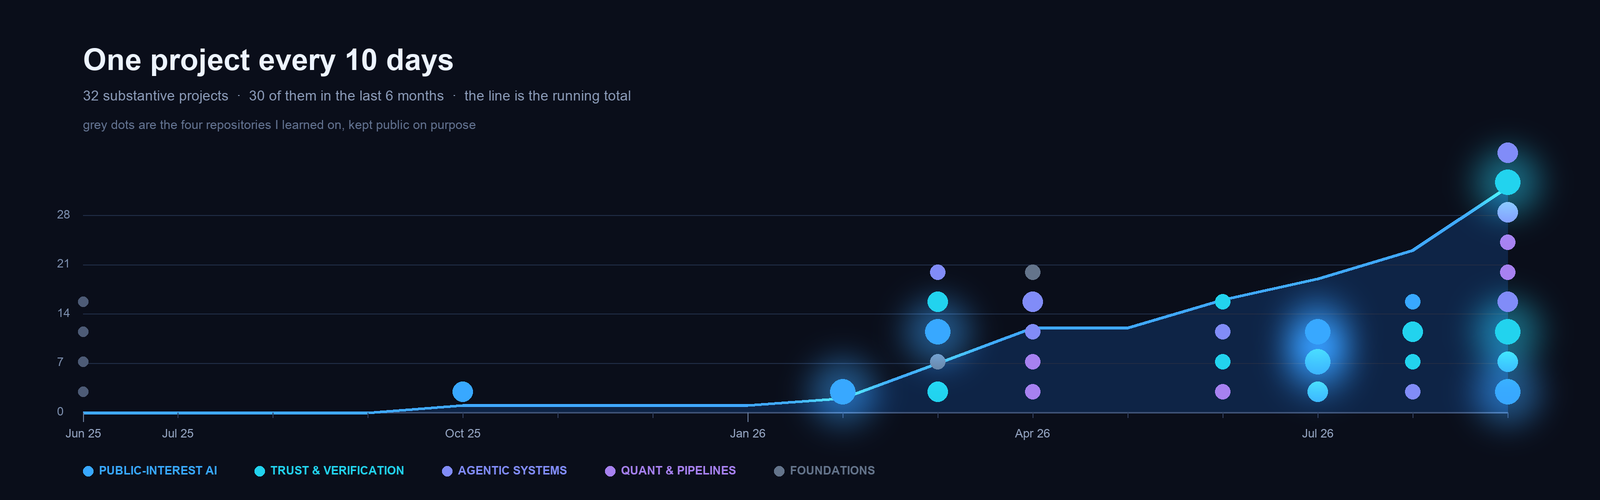
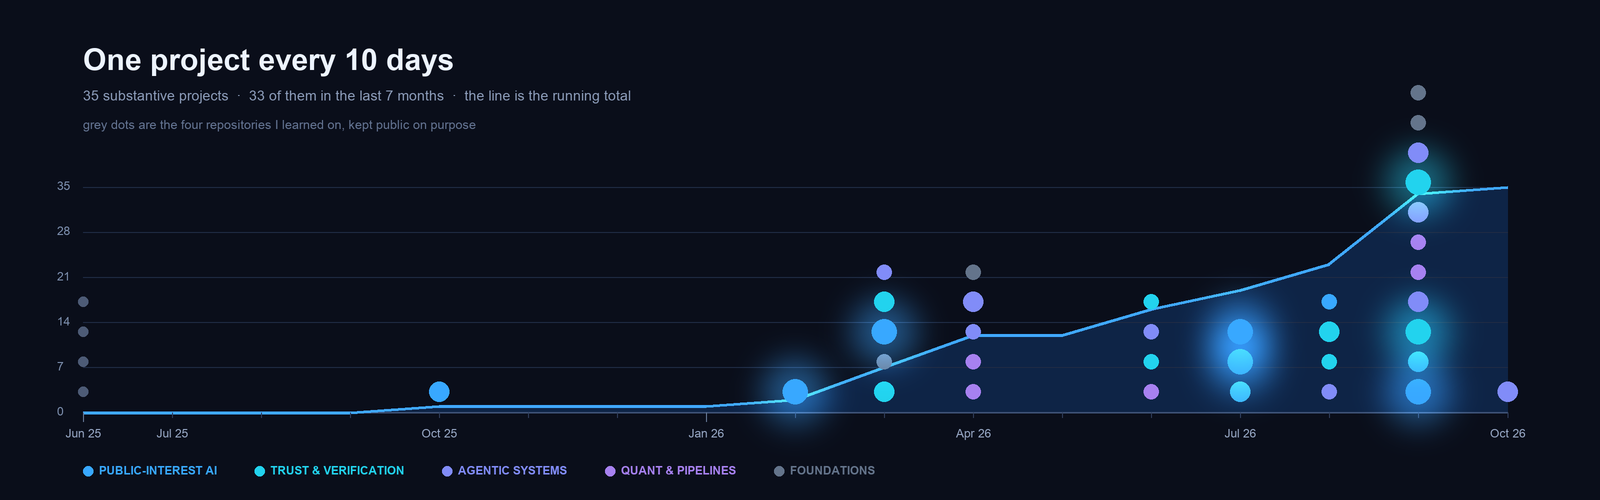
Add HireFlow, the portfolio and snipvault_v2; fix project index links
The index linked own repositories without the owner, so every link in
PROJECTS.md pointed at github.com/<repo>. They now point at the right
place. Counts, banner and timeline are regenerated from the live account
(35 projects). AGENTIQ now states 21 tools and 719 tests.

diff --git a/tools/themes.py b/tools/themes.py
@@ -53,6 +53,7 @@ THEME = {
     "CacheLLM": ("agentic systems", 2),
     "buy-or-wait-financial-agent": ("agentic systems", 2),
     "SmartAlloc": ("agentic systems", 2),
+    "hireflow": ("agentic systems", 2),
     "Inflx": ("agentic systems", 1),
     "Message-Notification-Router": ("agentic systems", 1),
     "Cost-Intel-Intelligence": ("agentic systems", 1),
@@ -68,6 +69,8 @@ THEME = {
     # foundations
     "Adaptive-Graph-Search-Suite": ("foundations", 1),
     "LNMIIT-Event-Management-System": ("foundations", 1),
+    "portfolio": ("foundations", 1),
+    "snipvault_v2": ("foundations", 1),
 }
 
 # the four repos I learned on, kept out of the counts so they are not padding

diff --git a/tools/projects_md.py b/tools/projects_md.py
@@ -47,7 +47,9 @@ def main() -> None:
             desc = (r.get("description") or "").replace("|", "\\|").strip()
             # an organisation repository lives under the organisation, not me
             label = r["name"] + (f" ⟨{r['org']}⟩" if r.get("org") else "")
-            a(f"| **[{label}]({GH}/{full_name(r)})** | {langs} | {desc} |")
+            # own repositories need the owner in the link, organisation ones carry it already
+            path = full_name(r) if r.get("org") else f"{OWNER}/{r['name']}"
+            a(f"| **[{label}]({GH}/{path})** | {langs} | {desc} |")
         a("")
 
     learn = [r for r in repos() if r["name"] in LEARNING]

diff --git a/PROJECTS.md b/PROJECTS.md
@@ -1,6 +1,6 @@
 # Every project, grouped
 
-32 substantive projects, one every 10 days on average. This page is generated from the GitHub API by `make index`, so it cannot fall behind the account.
+35 substantive projects, one every 10 days on average. This page is generated from the GitHub API by `make index`, so it cannot fall behind the account.
 
 [Back to the profile](README.md)
 
@@ -10,15 +10,15 @@
 
 | Project | Built with | What it does |
 |---|---|---|
-| **[Diabetic-Retinopathy-Detection](https://github.com/Diabetic-Retinopathy-Detection)** | Python, Shell, Jupyter Notebook | Explainable, quality-aware AI for diabetic retinopathy screening in rural India — measured Grad-CAM localisation, lesion-grounded evidence, and a district screening-programme simulation. Research prototype, not a medical device. |
-| **[Kadi](https://github.com/Kadi)** | TypeScript, JavaScript, Python | AI-driven crime analytics for the Karnataka State Police — 59,985 siloed FIRs joined into one explainable link graph, with entity resolution, 8 benchmarked ML models, forecasting, evidence OCR and a grounded bilingual (EN/ಕನ್ನಡ) assistant. Built on Zoho Catalyst. KSP Datathon 2026. |
-| **[KrishiMitra](https://github.com/KrishiMitra)** | Python, TypeScript, CSS | Crop intelligence for Indian smallholders: CatBoost crop recommendation cross-checked against 5 years of government district returns, leaf-disease detection from photos (93.75%, 10,162 images), FAO-56 irrigation advisory and Soil Health Card baselines from 13.35M tests. 13 tabs, 12 languages, 37 endpoints, deployed free. |
+| **[Diabetic-Retinopathy-Detection](https://github.com/adarshcod30/Diabetic-Retinopathy-Detection)** | Python, Shell, Jupyter Notebook | Explainable, quality-aware AI for diabetic retinopathy screening in rural India — measured Grad-CAM localisation, lesion-grounded evidence, and a district screening-programme simulation. Research prototype, not a medical device. |
+| **[Kadi](https://github.com/adarshcod30/Kadi)** | TypeScript, JavaScript, Python | AI-driven crime analytics for the Karnataka State Police — 59,985 siloed FIRs joined into one explainable link graph, with entity resolution, 8 benchmarked ML models, forecasting, evidence OCR and a grounded bilingual (EN/ಕನ್ನಡ) assistant. Built on Zoho Catalyst. KSP Datathon 2026. |
+| **[KrishiMitra](https://github.com/adarshcod30/KrishiMitra)** | Python, TypeScript, CSS | Crop intelligence for Indian smallholders: CatBoost crop recommendation cross-checked against 5 years of government district returns, leaf-disease detection from photos (93.75%, 10,162 images), FAO-56 irrigation advisory and Soil Health Card baselines from 13.35M tests. 13 tabs, 12 languages, 37 endpoints, deployed free. |
 | **[VaidyaMitra ⟨VaidyaMitra⟩](https://github.com/VaidyaMitra/VaidyaMitra)** | Python, TypeScript, CSS | Privacy-first clinical intelligence for Bharat. PII/PHI is masked before any model call. Jan Aushadhi generic matching with substitution safety warnings, report simplification in 15 Indian languages, and vision OCR — built on Amazon Bedrock (Nova Pro), FastAPI and Next.js. |
-| **[Vayu](https://github.com/Vayu)** | Python, TypeScript, Dockerfile | VAYU — Verifiable Airshed Intelligence & Enforcement. National air-quality platform: LightGBM + CNN-LSTM forecasting, Gemini-verified citizen reports, a 15,360-cell satellite grid, Gaussian-plume ROI ranking, and diff-in-diff outcome verification. Deployed on Google Cloud Run. |
-| **[CreditSetu](https://github.com/CreditSetu)** | Python, JavaScript, CSS | Open-source, explainable credit intelligence engine for thin-file and alternative-data lending. pip install creditsetu — score customers with no bureau history from behavioral transaction data, explain every decision, adapt currency/policy via config. |
-| **[MargaDrishti](https://github.com/MargaDrishti)** | Python, Jupyter Notebook, TypeScript | Spatio-temporal ML for Bengaluru road-capacity loss: parking-violation hotspot forecasting and event congestion, on one H3 x hourly substrate. 298k violations, 8k ASTraM events, 8 model families, published enforcement-bias audit. |
-| **[Medicure-AI](https://github.com/Medicure-AI)** | Python, JavaScript, CSS | Retrieval-first medicine identification for India: photograph a strip, get the composition, NPPA price check, Jan Aushadhi generic and interaction warnings — each with a calibrated confidence, and an honest refusal when the evidence is thin. |
-| **[Floodcast-Gurugram](https://github.com/Floodcast-Gurugram)** | TypeScript, Python, CSS | Will my route through Gurugram flood, and when? Live rainfall against 73 researched flood points, plus a register that learns from citizen reports. |
+| **[Vayu](https://github.com/adarshcod30/Vayu)** | Python, TypeScript, Dockerfile | VAYU — Verifiable Airshed Intelligence & Enforcement. National air-quality platform: LightGBM + CNN-LSTM forecasting, Gemini-verified citizen reports, a 15,360-cell satellite grid, Gaussian-plume ROI ranking, and diff-in-diff outcome verification. Deployed on Google Cloud Run. |
+| **[CreditSetu](https://github.com/adarshcod30/CreditSetu)** | Python, JavaScript, CSS | Open-source, explainable credit intelligence engine for thin-file and alternative-data lending. pip install creditsetu — score customers with no bureau history from behavioral transaction data, explain every decision, adapt currency/policy via config. |
+| **[MargaDrishti](https://github.com/adarshcod30/MargaDrishti)** | Python, Jupyter Notebook, TypeScript | Spatio-temporal ML for Bengaluru road-capacity loss: parking-violation hotspot forecasting and event congestion, on one H3 x hourly substrate. 298k violations, 8k ASTraM events, 8 model families, published enforcement-bias audit. |
+| **[Medicure-AI](https://github.com/adarshcod30/Medicure-AI)** | Python, JavaScript, CSS | Retrieval-first medicine identification for India: photograph a strip, get the composition, NPPA price check, Jan Aushadhi generic and interaction warnings — each with a calibrated confidence, and an honest refusal when the evidence is thin. |
+| **[Floodcast-Gurugram](https://github.com/adarshcod30/Floodcast-Gurugram)** | TypeScript, Python, CSS | Will my route through Gurugram flood, and when? Live rainfall against 73 researched flood points, plus a register that learns from citizen reports. |
 
 ## trust & verification
 
@@ -26,14 +26,14 @@
 
 | Project | Built with | What it does |
 |---|---|---|
-| **[AGENTIQ](https://github.com/AGENTIQ)** | JavaScript, TypeScript, Python | Agentic API testing and security validation: AI agents that act only through a permission-gated, SSRF-guarded, audited MCP tool layer. |
-| **[Orbweaver](https://github.com/Orbweaver)** | Python, Shell, Makefile | Finding coordinated promotion-abuse rings in transaction graphs, and reporting what it costs to be wrong about them. Densest-subgraph ring extraction over a rarity-weighted account graph, with a capacity-aware review policy and a nightly replay that survives the night. |
-| **[artifact-repro-triage](https://github.com/artifact-repro-triage)** | Python, HTML, Makefile | Verifies that a research paper's code repository actually contains what its README promises. Deterministic checks + one model call: 0% -> 100% detection of fabricated file claims, measured across 742 artifacts. micro1 Frontier Engineering Challenge 2026. |
-| **[MedGuardX](https://github.com/MedGuardX)** | Python, TypeScript, CSS | Context-aware PII/PHI detection & masking for healthcare data: a stateless OSS engine (on PyPI), a hardened FastAPI service (JWT RBAC + encryption), and a Next.js app. Built on Microsoft Presidio + spaCy, model-configurable (sm/md/lg/trf). |
-| **[OpenForensics](https://github.com/OpenForensics)** | Python, Shell | Deepfake face detection with a three-backbone CNN ensemble (ResNet50 + VGG16 + EfficientNetV2-B0). Calibrated confidence, per-backbone Grad-CAM, and an eight-page Streamlit dashboard showing the training, evaluation and robustness evidence behind every number. |
-| **[Multi-Modal-Evidence-Review](https://github.com/Multi-Modal-Evidence-Review)** | Python | Vision-language system that verifies whether photo evidence actually supports a damage claim (cars, laptops, packages) or contradicts it. Built for HackerRank Orchestrate 2026. |
-| **[Specledger](https://github.com/Specledger)** | Python, HTML, Makefile | Chain of custody for AI-generated product data — evidence-gated extraction, calibrated confidence, and selective abstention for industrial product intelligence. |
-| **[Talent-Intelligence-Candidate-Discovery-Platform](https://github.com/Talent-Intelligence-Candidate-Discovery-Platform)** | Python | CPU-only pipeline that ranks 100,000 candidates in under 18 seconds, filters out fake profiles/honeypots, and generates factual recruiter justifications with DNA fingerprints & trust scores. |
+| **[AGENTIQ](https://github.com/adarshcod30/AGENTIQ)** | JavaScript, TypeScript, Python | Agentic API testing and security validation: AI agents that act only through a permission-gated, SSRF-guarded, audited MCP tool layer. |
+| **[Orbweaver](https://github.com/adarshcod30/Orbweaver)** | Python, Shell, Makefile | Finding coordinated promotion-abuse rings in transaction graphs, and reporting what it costs to be wrong about them. Densest-subgraph ring extraction over a rarity-weighted account graph, with a capacity-aware review policy and a nightly replay that survives the night. |
+| **[artifact-repro-triage](https://github.com/adarshcod30/artifact-repro-triage)** | Python, HTML, Makefile | Verifies that a research paper's code repository actually contains what its README promises. Deterministic checks + one model call: 0% -> 100% detection of fabricated file claims, measured across 742 artifacts. micro1 Frontier Engineering Challenge 2026. |
+| **[MedGuardX](https://github.com/adarshcod30/MedGuardX)** | Python, TypeScript, CSS | Context-aware PII/PHI detection & masking for healthcare data: a stateless OSS engine (on PyPI), a hardened FastAPI service (JWT RBAC + encryption), and a Next.js app. Built on Microsoft Presidio + spaCy, model-configurable (sm/md/lg/trf). |
+| **[OpenForensics](https://github.com/adarshcod30/OpenForensics)** | Python, Shell | Deepfake face detection with a three-backbone CNN ensemble (ResNet50 + VGG16 + EfficientNetV2-B0). Calibrated confidence, per-backbone Grad-CAM, and an eight-page Streamlit dashboard showing the training, evaluation and robustness evidence behind every number. |
+| **[Multi-Modal-Evidence-Review](https://github.com/adarshcod30/Multi-Modal-Evidence-Review)** | Python | Vision-language system that verifies whether photo evidence actually supports a damage claim (cars, laptops, packages) or contradicts it. Built for HackerRank Orchestrate 2026. |
+| **[Specledger](https://github.com/adarshcod30/Specledger)** | Python, HTML, Makefile | Chain of custody for AI-generated product data — evidence-gated extraction, calibrated confidence, and selective abstention for industrial product intelligence. |
+| **[Talent-Intelligence-Candidate-Discovery-Platform](https://github.com/adarshcod30/Talent-Intelligence-Candidate-Discovery-Platform)** | Python | CPU-only pipeline that ranks 100,000 candidates in under 18 seconds, filters out fake profiles/honeypots, and generates factual recruiter justifications with DNA fingerprints & trust scores. |
 
 ## agentic systems
 
@@ -41,14 +41,15 @@
 
 | Project | Built with | What it does |
 |---|---|---|
-| **[buy-or-wait-financial-agent](https://github.com/buy-or-wait-financial-agent)** | Python, Shell | Financial decision agent for HackerRank Orchestrate September 2026: deterministic 90-day cash-flow forecast, typed evidence extraction on Amazon Bedrock, verified payment plans |
-| **[CacheLLM](https://github.com/CacheLLM)** | Python, Dockerfile, Makefile | A drop-in semantic cache for LLM APIs. One proxy routes to OpenAI, Gemini, Groq, Claude, Ollama and Bedrock. 77% hit rate, 78% lower cost, zero wrong answers on new questions. |
-| **[SmartAlloc](https://github.com/SmartAlloc)** | TypeScript, JavaScript, CSS | SmartAlloc is an autonomous AI decision-science platform for enterprise resource allocation. Using a 7-agent LangGraph pipeline, Linear Programming, and Google Gemini, it actively detects compute waste, predicts SLA bottlenecks, and executes dynamic optimizations to maximize ROI. |
-| **[Travel-Planner-Agent](https://github.com/Travel-Planner-Agent)** | Python, TypeScript, Shell | Five generations of a multi-agent travel planner — linear to browser-driving — served concurrently by Aegra on AWS Bedrock. LangGraph, MCP, human-in-the-loop, live Playwright automation you can take over. |
-| **[Cost-Intel-Intelligence](https://github.com/Cost-Intel-Intelligence)** | TypeScript, JavaScript, CSS | Cost Intel Intelligence is an AI system that analyzes enterprise data to detect cost inefficiencies, predict risks, and trigger actions. It combines real-time analytics, LLM-based decisions, and human approval to reduce cost leakage, prevent SLA breaches, and deliver measurable financial impact. |
-| **[Inflx](https://github.com/Inflx)** | Python, Dockerfile | AutoStream: A production-ready AI agent built on LangGraph & Gemini 3.1. It converts social media interactions into qualified CRM leads through zero-hallucination RAG, context-aware intent routing, and stateful multi-turn data extraction. Deployed live on Streamlit Cloud. |
-| **[Message-Notification-Router](https://github.com/Message-Notification-Router)** | Python | AI system that decides which WhatsApp messages deserve to interrupt you and which shouldn't — multimodal, personalised, safety-first. Built for HackerRank Orchestrate 2026. |
-| **[SuiGuard](https://github.com/SuiGuard)** | TypeScript, CSS, HTML | An AI-powered operating system for Web3 that safely parses plain English goals, compiles them into raw Sui Programmable Transaction Blocks, and performs deep risk analysis before execution. |
+| **[buy-or-wait-financial-agent](https://github.com/adarshcod30/buy-or-wait-financial-agent)** | Python, Shell | Financial decision agent for HackerRank Orchestrate September 2026: deterministic 90-day cash-flow forecast, typed evidence extraction on Amazon Bedrock, verified payment plans |
+| **[CacheLLM](https://github.com/adarshcod30/CacheLLM)** | Python, Dockerfile, Makefile | A drop-in semantic cache for LLM APIs. One proxy routes to OpenAI, Gemini, Groq, Claude, Ollama and Bedrock. 77% hit rate, 78% lower cost, zero wrong answers on new questions. |
+| **[hireflow](https://github.com/adarshcod30/hireflow)** | TypeScript, CSS, Shell | Hiring pipeline on AWS: NestJS API, PostgreSQL, SQS, Lambda, Bedrock Nova resume screening and SES, deployed with CDK |
+| **[SmartAlloc](https://github.com/adarshcod30/SmartAlloc)** | TypeScript, JavaScript, CSS | SmartAlloc is an autonomous AI decision-science platform for enterprise resource allocation. Using a 7-agent LangGraph pipeline, Linear Programming, and Google Gemini, it actively detects compute waste, predicts SLA bottlenecks, and executes dynamic optimizations to maximize ROI. |
+| **[Travel-Planner-Agent](https://github.com/adarshcod30/Travel-Planner-Agent)** | Python, TypeScript, Shell | Five generations of a multi-agent travel planner — linear to browser-driving — served concurrently by Aegra on AWS Bedrock. LangGraph, MCP, human-in-the-loop, live Playwright automation you can take over. |
+| **[Cost-Intel-Intelligence](https://github.com/adarshcod30/Cost-Intel-Intelligence)** | TypeScript, JavaScript, CSS | Cost Intel Intelligence is an AI system that analyzes enterprise data to detect cost inefficiencies, predict risks, and trigger actions. It combines real-time analytics, LLM-based decisions, and human approval to reduce cost leakage, prevent SLA breaches, and deliver measurable financial impact. |
+| **[Inflx](https://github.com/adarshcod30/Inflx)** | Python, Dockerfile | AutoStream: A production-ready AI agent built on LangGraph & Gemini 3.1. It converts social media interactions into qualified CRM leads through zero-hallucination RAG, context-aware intent routing, and stateful multi-turn data extraction. Deployed live on Streamlit Cloud. |
+| **[Message-Notification-Router](https://github.com/adarshcod30/Message-Notification-Router)** | Python | AI system that decides which WhatsApp messages deserve to interrupt you and which shouldn't — multimodal, personalised, safety-first. Built for HackerRank Orchestrate 2026. |
+| **[SuiGuard](https://github.com/adarshcod30/SuiGuard)** | TypeScript, CSS, HTML | An AI-powered operating system for Web3 that safely parses plain English goals, compiles them into raw Sui Programmable Transaction Blocks, and performs deep risk analysis before execution. |
 
 ## quant & pipelines
 
@@ -56,11 +57,11 @@
 
 | Project | Built with | What it does |
 |---|---|---|
-| **[Air-Cargo-Intelligence](https://github.com/Air-Cargo-Intelligence)** | Python, JavaScript, CSS | Agentic analytics platform that turns fragmented Indian air-cargo data into ranked airports, explained anomalies, and source-cited answers. Multi-agent pipeline over DGCA, AAI and open government datasets. |
-| **[Flipkart-Gridlock-2.0](https://github.com/Flipkart-Gridlock-2.0)** | Python, Jupyter Notebook | A competition-grade, end-to-end machine learning pipeline that predicts real-time traffic demand across geographic locations using geohash spatial indexing, cyclical temporal encoding, and a tri-model ensemble optimized with Optuna hyperparameter tuning. |
-| **[PrimeTradeDS](https://github.com/PrimeTradeDS)** | Python | Analyzing how Bitcoin Fear/Greed sentiment influences trader behavior and performance on Hyperliquid — 211K trades, statistical analysis, ML models, and an interactive Streamlit dashboard. |
-| **[PrimeTradeML](https://github.com/PrimeTradeML)** | Python, Dockerfile, Makefile | A deterministic, Dockerized MLOps batch pipeline for reproducible trading signal generation and observability. |
-| **[switch-energy-x-india](https://github.com/switch-energy-x-india)** | Python, Jupyter Notebook, Shell | Recovering a hidden physical law from 500,000 unlabeled, 26%-missing sensor rows — system identification for the SWITCH ENERGY-X (INDIA) hackathon. Private LB: 11th/93. |
+| **[Air-Cargo-Intelligence](https://github.com/adarshcod30/Air-Cargo-Intelligence)** | Python, JavaScript, CSS | Agentic analytics platform that turns fragmented Indian air-cargo data into ranked airports, explained anomalies, and source-cited answers. Multi-agent pipeline over DGCA, AAI and open government datasets. |
+| **[Flipkart-Gridlock-2.0](https://github.com/adarshcod30/Flipkart-Gridlock-2.0)** | Python, Jupyter Notebook | A competition-grade, end-to-end machine learning pipeline that predicts real-time traffic demand across geographic locations using geohash spatial indexing, cyclical temporal encoding, and a tri-model ensemble optimized with Optuna hyperparameter tuning. |
+| **[PrimeTradeDS](https://github.com/adarshcod30/PrimeTradeDS)** | Python | Analyzing how Bitcoin Fear/Greed sentiment influences trader behavior and performance on Hyperliquid — 211K trades, statistical analysis, ML models, and an interactive Streamlit dashboard. |
+| **[PrimeTradeML](https://github.com/adarshcod30/PrimeTradeML)** | Python, Dockerfile, Makefile | A deterministic, Dockerized MLOps batch pipeline for reproducible trading signal generation and observability. |
+| **[switch-energy-x-india](https://github.com/adarshcod30/switch-energy-x-india)** | Python, Jupyter Notebook, Shell | Recovering a hidden physical law from 500,000 unlabeled, 26%-missing sensor rows — system identification for the SWITCH ENERGY-X (INDIA) hackathon. Private LB: 11th/93. |
 
 ## foundations
 
@@ -68,8 +69,10 @@
 
 | Project | Built with | What it does |
 |---|---|---|
-| **[Adaptive-Graph-Search-Suite](https://github.com/Adaptive-Graph-Search-Suite)** | C++, JavaScript, Python | C++20 routing engine on real Indian road, metro and railway networks — 1.7M junctions across Delhi NCR, 9 cities, the national highway grid and 70k rail nodes. Contraction Hierarchies, Customizable CH, ALT landmarks and time-dependent routing, verified exact. Runs in the browser via WebAssembly. |
-| **[LNMIIT-Event-Management-System](https://github.com/LNMIIT-Event-Management-System)** | JavaScript, HTML, CSS | The Scheduler module of LNMIIT Technical Event Management System. |
+| **[Adaptive-Graph-Search-Suite](https://github.com/adarshcod30/Adaptive-Graph-Search-Suite)** | C++, JavaScript, Python | C++20 routing engine on real Indian road, metro and railway networks — 1.7M junctions across Delhi NCR, 9 cities, the national highway grid and 70k rail nodes. Contraction Hierarchies, Customizable CH, ALT landmarks and time-dependent routing, verified exact. Runs in the browser via WebAssembly. |
+| **[LNMIIT-Event-Management-System](https://github.com/adarshcod30/LNMIIT-Event-Management-System)** | JavaScript, CSS, HTML | Campus event management for LNMIIT: venue-clash detection, registration with a waitlist, QR check-in and an admin panel. MERN, with 451 Jest tests. |
+| **[portfolio](https://github.com/adarshcod30/portfolio)** | TypeScript, CSS, Python | Personal site: 26 projects across five domains, the competition record, and 14 role-specific resumes. Next.js, generated from one source of facts. |
+| **[snipvault_v2](https://github.com/adarshcod30/snipvault_v2)** | JavaScript | Share code snippets with a link. Hardened Express + inline UI, deploys to Render and Vercel. |
 
 ## Where I started
 

diff --git a/README.md b/README.md
@@ -1,6 +1,6 @@
 <div align="center">
 
-<img src="assets/banner.png" alt="Adarsh Dwivedi: ML, deep learning and generative and agentic AI, built to be checked. A radial map of 32 projects across five areas: public-interest AI, trust and verification, agentic systems, quant and pipelines, and foundations." width="100%">
+<img src="assets/banner.png" alt="Adarsh Dwivedi: ML, deep learning and generative and agentic AI, built to be checked. A radial map of 35 projects across five areas: public-interest AI, trust and verification, agentic systems, quant and pipelines, and foundations." width="100%">
 
 ### [Orbweaver](https://github.com/adarshcod30/Orbweaver) · [Kadi](https://github.com/adarshcod30/Kadi) · [KrishiMitra](https://github.com/adarshcod30/KrishiMitra) · [Vayu](https://github.com/adarshcod30/Vayu) · [MargaDrishti](https://github.com/adarshcod30/MargaDrishti) · [VaidyaMitra](https://github.com/VaidyaMitra/VaidyaMitra) · [AGENTIQ](https://github.com/adarshcod30/AGENTIQ)
 
@@ -61,7 +61,7 @@ load-bearing.
 
 <div align="center">
 
-<img src="assets/timeline.png" alt="Running total of 32 projects from June 2025 to September 2026, coloured by area, with the four early learning repositories in grey." width="100%">
+<img src="assets/timeline.png" alt="Running total of 35 projects from June 2025 to October 2026, coloured by area, with the four early learning repositories in grey." width="100%">
 
 </div>
 
@@ -86,7 +86,7 @@ load-bearing.
 | Project | The hard part |
 |---|---|
 | **[Orbweaver](https://github.com/adarshcod30/Orbweaver)** | Densest-subgraph extraction over a **35.7M-edge** account graph: **0.7292** ring precision against a **0.2242** base rate, always reported with the **0.371** real customers swept in per fraudster caught. 36 dated failures published alongside |
-| **[AGENTIQ](https://github.com/adarshcod30/AGENTIQ)** | B.Tech final-year project. **Eight** vulnerability families mapped to the OWASP API Security Top 10, probed by **baseline differential**, so a finding needs a material deviation rather than a suspicious-looking string. Every outbound request passes a permission-checked, SSRF-guarded, audited tool layer |
+| **[AGENTIQ](https://github.com/adarshcod30/AGENTIQ)** | B.Tech final-year project. **Eight** vulnerability families mapped to the OWASP API Security Top 10, probed by **baseline differential**, so a finding needs a material deviation rather than a suspicious-looking string. Every outbound request passes a permission-checked, SSRF-guarded, audited layer of **21** tools in six risk classes, and **719** tests gate every change |
 | **[artifact-repro-triage](https://github.com/adarshcod30/artifact-repro-triage)** | Checks whether a paper's repository contains what its README promises. **0% → 100%** detection of fabricated file claims across **742** artifacts |
 | **[OpenForensics](https://github.com/adarshcod30/OpenForensics)** | Three-backbone deepfake ensemble with calibrated confidence and per-backbone Grad-CAM. The dashboard shows the evidence, not just the verdict |
 | **[Specledger](https://github.com/adarshcod30/Specledger)** | A logistic calibrator over **11 evidence features** picks an auto-publish threshold hitting a measured precision floor on held-out data, instead of trusting an LLM's self-reported confidence |
@@ -96,6 +96,7 @@ load-bearing.
 
 | Project | The hard part |
 |---|---|
+| **[HireFlow](https://github.com/adarshcod30/hireflow)** | A hiring pipeline on AWS built for the failures tutorials skip: double clicks, two people editing one record, a queue that delivers a message twice. NestJS and PostgreSQL, SQS and Lambda, Bedrock Nova first-pass screening, one email per status change, all in CDK. **609** tests, and the README says what was measured and that it has no real users |
 | **[SmartAlloc](https://github.com/adarshcod30/SmartAlloc)** | A 7-agent LangGraph pipeline over linear programming that finds compute waste and predicts SLA bottlenecks before they land |
 | **[Talent-Intelligence](https://github.com/adarshcod30/Talent-Intelligence-Candidate-Discovery-Platform)** | **100,000** candidates ranked in under **18 seconds**, CPU only, with honeypot and fake-profile filtering |
 | **[CacheLLM](https://github.com/adarshcod30/CacheLLM)** | `pip install cachellm-proxy`. A drop-in proxy keeping the OpenAI request and response shape *including streaming*, verified against the official Python and Node SDKs. Exact hash, then a cosine tier whose safe threshold is **measured per embedding model**. **77%** hit rate, **78%** lower cost, zero wrong answers on genuinely new questions |
@@ -148,7 +149,7 @@ make index      # rewrite PROJECTS.md
 make            # the last two
 ```
 
-Claiming reproducibility on 32 projects and then hand-maintaining my own
+Claiming reproducibility on 35 projects and then hand-maintaining my own
 profile would have made this the one dishonest page on the account.
 
 ## Elsewhere
